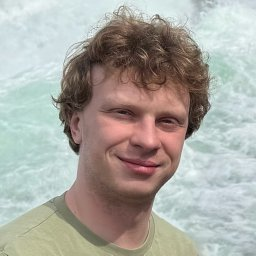
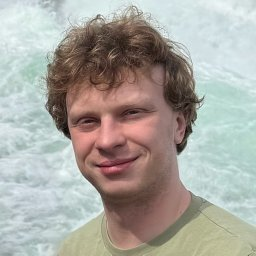
Refresh portfolio content and assets

diff --git a/app/page.tsx b/app/page.tsx
@@ -2,14 +2,16 @@ const publications = [
   {
     year: '2026',
     title: 'Weak wave turbulence as a precursor to universal coarsening in a homogeneous Bose gas',
-    authors: 'S. M. Fischer, M. Gazo, S. J. Morris, N. Maslov, H. Zhang, J. Etrych, et al.',
+    authors:
+      'S. M. Fischer, M. Gazo, S. J. Morris, N. Maslov, H. Zhang, J. Etrych, G. Martirosyan, C. Eigen, Z. Hadzibabic',
     journal: 'arXiv:2605.22906',
     href: 'https://arxiv.org/abs/2605.22906',
   },
   {
     year: '2026',
     title: 'Observation of Vinen turbulence during far-from-equilibrium Bose-Einstein condensation',
-    authors: 'S. J. Morris, M. Gazo, S. M. Fischer, H. Zhang, C. J. Ho, N. R. Cooper, et al.',
+    authors:
+      'S. J. Morris, M. Gazo, S. M. Fischer, H. Zhang, C. J. Ho, N. R. Cooper, C. Eigen, Z. Hadzibabic',
     journal: 'arXiv:2604.28191',
     href: 'https://arxiv.org/abs/2604.28191',
   },
@@ -17,6 +19,9 @@ const publications = [
     year: '2026',
     title: 'A nonequilibrium equation of state for a turbulent 2D Bose gas',
     authors: 'Y. Jiang, N. Maslov, A. Karailiev, C. Eigen, M. Gazo, Z. Hadzibabic',
+    equalContributionAuthors: ['Y. Jiang', 'N. Maslov'],
+    correspondingAuthor: 'M. Gazo',
+    authorNote: '* Equal contribution',
     journal: 'arXiv:2602.06131',
     href: 'https://arxiv.org/abs/2602.06131',
   },
@@ -31,7 +36,8 @@ const publications = [
   {
     year: '2025',
     title: 'A universal speed limit for spreading of coherence',
-    authors: 'G. Martirosyan, M. Gazo, J. Etrych, S. M. Fischer, S. J. Morris, C. J. Ho, et al.',
+    authors:
+      'G. Martirosyan, M. Gazo, J. Etrych, S. M. Fischer, S. J. Morris, C. J. Ho, C. Eigen, Z. Hadzibabic',
     journal: 'Nature 647, 608',
     href: 'https://www.nature.com/articles/s41586-025-09735-z',
     arxiv: 'https://arxiv.org/abs/2410.08204',
@@ -57,7 +63,8 @@ const publications = [
 const software = [
   {
     name: 'BESee',
-    description: 'C#/.NET desktop app for viewing, fitting, and analysing cold-atom absorption images.',
+    description:
+      'The largest project here, BESee is a C#/.NET desktop app for live viewing, fitting and analysing cold-atom absorption images. It is designed to load thousands of images efficiently and run fast CPU-based fits. It was inspired by Alex Gaunt’s Analysis GpUI and built as its replacement.',
     site: 'https://matoga.github.io/besee/',
     image: '/software/besee.png',
     imageAlt: 'BESee download page showing the absorption-image analysis application',
@@ -71,14 +78,16 @@ const software = [
   },
   {
     name: 'BEC3 Status',
-    description: 'Live experiment dashboard for lab telemetry, environmental data, images, and oscilloscope traces.',
+    description:
+      'Live experiment dashboard for lab telemetry, environmental data, images, and oscilloscope traces, built on Cloudflare D1. Still in active use, so it is password-protected.',
     site: 'https://bec3status.pages.dev/',
     image: '/software/bec3-status.png',
     imageAlt: 'Dark BEC3 lab status dashboard with image, air, and photodiode panels',
   },
   {
     name: '2D GPE',
-    description: 'Browser-based two-dimensional Gross-Pitaevskii equation simulator.',
+    description:
+      'Browser-based interactive two-dimensional Gross-Pitaevskii equation simulator that is fun to play with!',
     site: 'https://web-gpe.vercel.app/',
     image: '/software/web-gpe.png',
     imageAlt: 'Two-dimensional Bose-Einstein condensate simulation interface',
@@ -93,7 +102,8 @@ const software = [
   },
   {
     name: 'Two-Component Imaginary Time GPE Solver',
-    description: 'Browser-based imaginary-time solver for three-dimensional, two-component quantum gases.',
+    description:
+      'Holding two spin states in a box is trickier than it sounds. This imaginary-time solver models three-dimensional, two-component quantum gases.',
     site: 'https://imaggpe2comp.vercel.app/',
     github: 'https://github.com/matoga/imag-GPE-2-component-solver',
     image: '/software/two-component-gpe.png',
@@ -133,12 +143,8 @@ const highlights = [
     summary:
       'A two-dimensional Bose gas driven far from equilibrium and released from several very different disordered states thermalises along a single, shared path. Once initial-state-dependent effects are accounted for, we found experimentally that the dynamics follow the scaling predicted by the theory of far-from-equilibrium Bose-gas dynamics: coarsening at long lengthscales and weak-wave turbulence at short scales. We also show how these initial-state effects matter for any study of universality far from equilibrium.',
     image: '/publications/science-coarsening.png',
-    imageAlt: 'Optical tables and vacuum apparatus used to study a two-dimensional quantum gas',
-    secondaryImage: '/publications/2dcoarse.png',
-    secondaryImageAlt: 'Momentum-space distributions converging during coarsening',
+    imageAlt: 'Momentum distributions showing particle and energy transport and universal scaling',
     paper: 'https://doi.org/10.1126/science.ado3487',
-    story:
-      'https://www.phy.cam.ac.uk/news/ultracold-atoms-reveal-universal-rules-far-from-equilibrium/',
     primaryLinks: [
       { label: 'Science', href: 'https://doi.org/10.1126/science.ado3487' },
       { label: 'arXiv', href: 'https://arxiv.org/abs/2312.09248' },
@@ -159,10 +165,7 @@ const highlights = [
       'When a disordered Bose gas starts to condense, coherence first grows faster if the atoms interact more strongly. At larger distances, that advantage disappears. We found a universal upper rate set only by Planck\'s constant and the atom\'s mass, placing a fundamental limit on how quickly long-range quantum order can form.',
     image: '/publications/nature-coherence.png',
     imageAlt: 'Ultracold atom experiment illuminated by green laser light',
-    secondaryImage: '/publications/Speedlimit.jpg',
-    secondaryImageAlt: 'Illustration of the universal speed limit for spreading coherence',
     paper: 'https://www.nature.com/articles/s41586-025-09735-z',
-    story: 'https://www.phy.cam.ac.uk/news/a-speed-limit-for-spreading-of-coherence/',
     primaryLinks: [
       { label: 'Nature', href: 'https://www.nature.com/articles/s41586-025-09735-z' },
       { label: 'arXiv', href: 'https://arxiv.org/abs/2410.08204' },
@@ -184,6 +187,30 @@ const highlights = [
   },
 ];
 
+function renderAuthors(publication: (typeof publications)[number]) {
+  const equalContributors =
+    'equalContributionAuthors' in publication ? publication.equalContributionAuthors : [];
+  const correspondingAuthor = 'correspondingAuthor' in publication ? publication.correspondingAuthor : null;
+  const authors = publication.authors.split(', ');
+
+  return authors.map((author, index) => (
+    <span key={`${author}-${index}`}>
+      <span className={author === 'M. Gazo' ? 'author-self' : undefined}>{author}</span>
+      {equalContributors.includes(author) && (
+        <sup className="author-glyph" aria-label="Equal contribution">
+          *
+        </sup>
+      )}
+      {correspondingAuthor === author && (
+        <sup className="author-glyph author-glyph-corresponding" aria-label="Corresponding author">
+          ✉
+        </sup>
+      )}
+      {index < authors.length - 1 && ', '}
+    </span>
+  ));
+}
+
 export default function Home() {
   return (
     <div className="site-shell">
@@ -202,7 +229,7 @@ export default function Home() {
             <div>
               <h1>Martin Gazo</h1>
               <p className="role">
-                Researcher in experimental quantum physics at the University of Cambridge
+                Experimental physicist specialising in quantum gases
               </p>
 
               <div className="intro-copy">
@@ -223,9 +250,23 @@ export default function Home() {
                   target="_blank"
                   rel="noreferrer"
                 >
+                  {/* eslint-disable-next-line @next/next/no-img-element */}
+                  <img
+                    className="profile-link-icon"
+                    src="/icons/google-scholar.webp"
+                    alt=""
+                    aria-hidden="true"
+                  />
                   Google Scholar
                 </a>
                 <a href="https://github.com/matoga" target="_blank" rel="noreferrer">
+                  {/* eslint-disable-next-line @next/next/no-img-element */}
+                  <img
+                    className="profile-link-icon"
+                    src="/icons/github.png"
+                    alt=""
+                    aria-hidden="true"
+                  />
                   GitHub
                 </a>
                 <a
@@ -233,6 +274,13 @@ export default function Home() {
                   target="_blank"
                   rel="noreferrer"
                 >
+                  {/* eslint-disable-next-line @next/next/no-img-element */}
+                  <img
+                    className="profile-link-icon"
+                    src="/icons/linkedin.png"
+                    alt=""
+                    aria-hidden="true"
+                  />
                   LinkedIn
                 </a>
               </div>
@@ -265,35 +313,12 @@ export default function Home() {
           <div className="research-highlights">
             {highlights.map((highlight) => (
               <article className="research-highlight" key={highlight.paper}>
-                <div className="highlight-images highlight-carousel">
-                  <a
-                    className="highlight-image"
-                    href={highlight.story}
-                    target="_blank"
-                    rel="noreferrer"
-                    aria-label={`Read the Cambridge story about ${highlight.title}`}
-                  >
+                <div className="highlight-images">
+                  <div className="highlight-image">
                     {/* The source images are already sized for this layout. */}
                     {/* eslint-disable-next-line @next/next/no-img-element */}
                     <img src={highlight.image} alt={highlight.imageAlt} width={1000} height={660} />
-                  </a>
-                  {highlight.secondaryImage && (
-                    <a
-                      className="highlight-image"
-                      href={highlight.story}
-                      target="_blank"
-                      rel="noreferrer"
-                      aria-label={`Read the Cambridge story about ${highlight.title}`}
-                    >
-                      {/* eslint-disable-next-line @next/next/no-img-element */}
-                      <img
-                        src={highlight.secondaryImage}
-                        alt={highlight.secondaryImageAlt}
-                        width={1000}
-                        height={660}
-                      />
-                    </a>
-                  )}
+                  </div>
                 </div>
                 <div className="highlight-copy">
                   <p className="highlight-meta">
@@ -350,9 +375,12 @@ export default function Home() {
                   >
                     {publication.title}
                   </a>
-                  <p>{publication.authors}</p>
+                  <p>{renderAuthors(publication)}</p>
+                  {publication.authorNote && <p className="author-note">{publication.authorNote}</p>}
                   <p className="journal">
-                    {publication.journal}
+                    <a href={publication.href} target="_blank" rel="noreferrer">
+                      {publication.journal}
+                    </a>
                     {publication.arxiv && (
                       <>
                         {' · '}
@@ -431,7 +459,7 @@ export default function Home() {
       </main>
 
       <footer>
-        <span>Martin Gazo</span>
+        <span>© 2026 Martin Gazo</span>
         <span>Cambridge, UK</span>
       </footer>
     </div>

diff --git a/app/globals.css b/app/globals.css
@@ -136,9 +136,27 @@ h1 {
   font-size: 14px;
 }
 
+.profile-links a {
+  display: inline-flex;
+  align-items: center;
+  gap: 7px;
+}
+
+.profile-link-icon {
+  width: 17px;
+  height: 17px;
+  display: block;
+  flex: 0 0 auto;
+  object-fit: contain;
+}
+
 .section {
   padding: 64px 0 72px;
   border-top: 1px solid var(--rule);
+}
+
+#publications {
+  padding-bottom: 0;
 }
 
 .section-title-row {
@@ -186,8 +204,7 @@ h2 {
 
 .highlight-images {
   display: grid;
-  grid-template-columns: repeat(2, minmax(0, 1fr));
-  gap: 12px;
+  grid-template-columns: minmax(0, 1fr);
 }
 
 .highlight-carousel {
@@ -340,6 +357,30 @@ h2 {
   margin-top: 2px;
   color: var(--text);
   font-style: italic;
+}
+
+.author-glyph {
+  margin-left: 1px;
+  color: currentColor;
+  font-size: 0.72em;
+  font-weight: 700;
+  line-height: 0;
+}
+
+.author-glyph-corresponding {
+  font-size: 1em;
+}
+
+.author-self {
+  text-decoration: underline;
+  text-decoration-thickness: 1px;
+  text-underline-offset: 2px;
+}
+
+.author-note {
+  margin-top: -4px;
+  color: var(--muted);
+  font-size: 12px;
 }
 
 .software-list {
